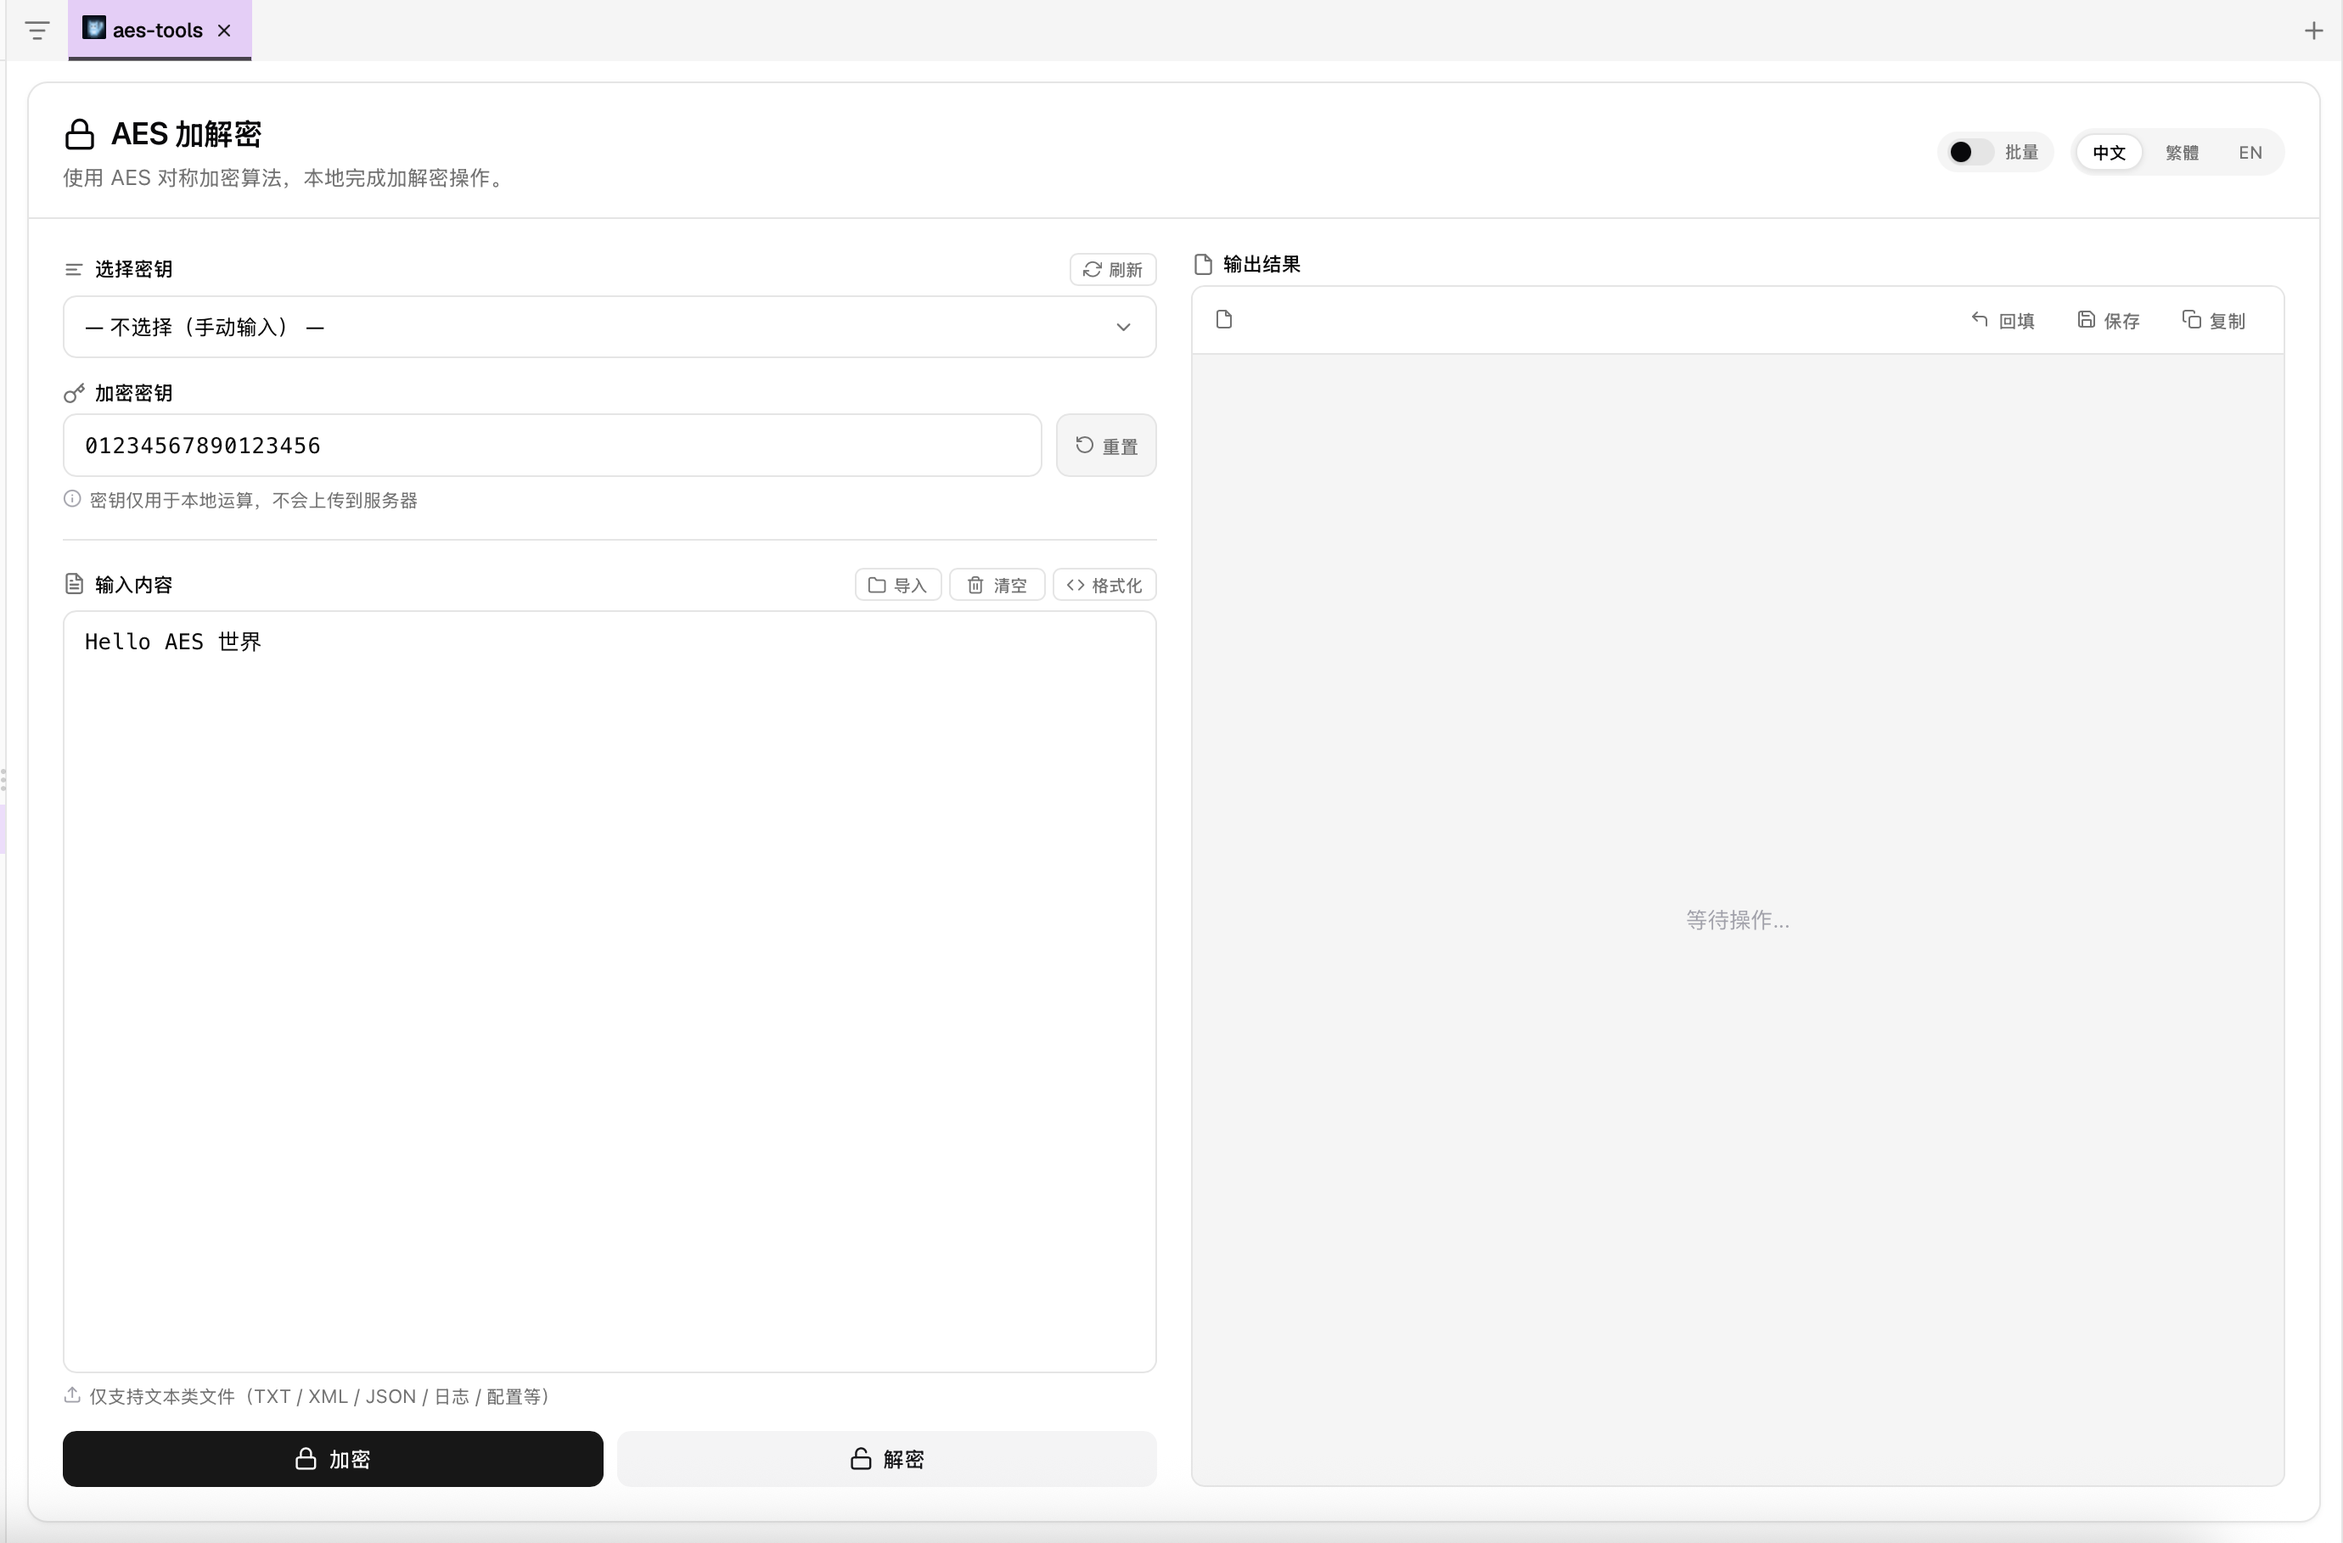
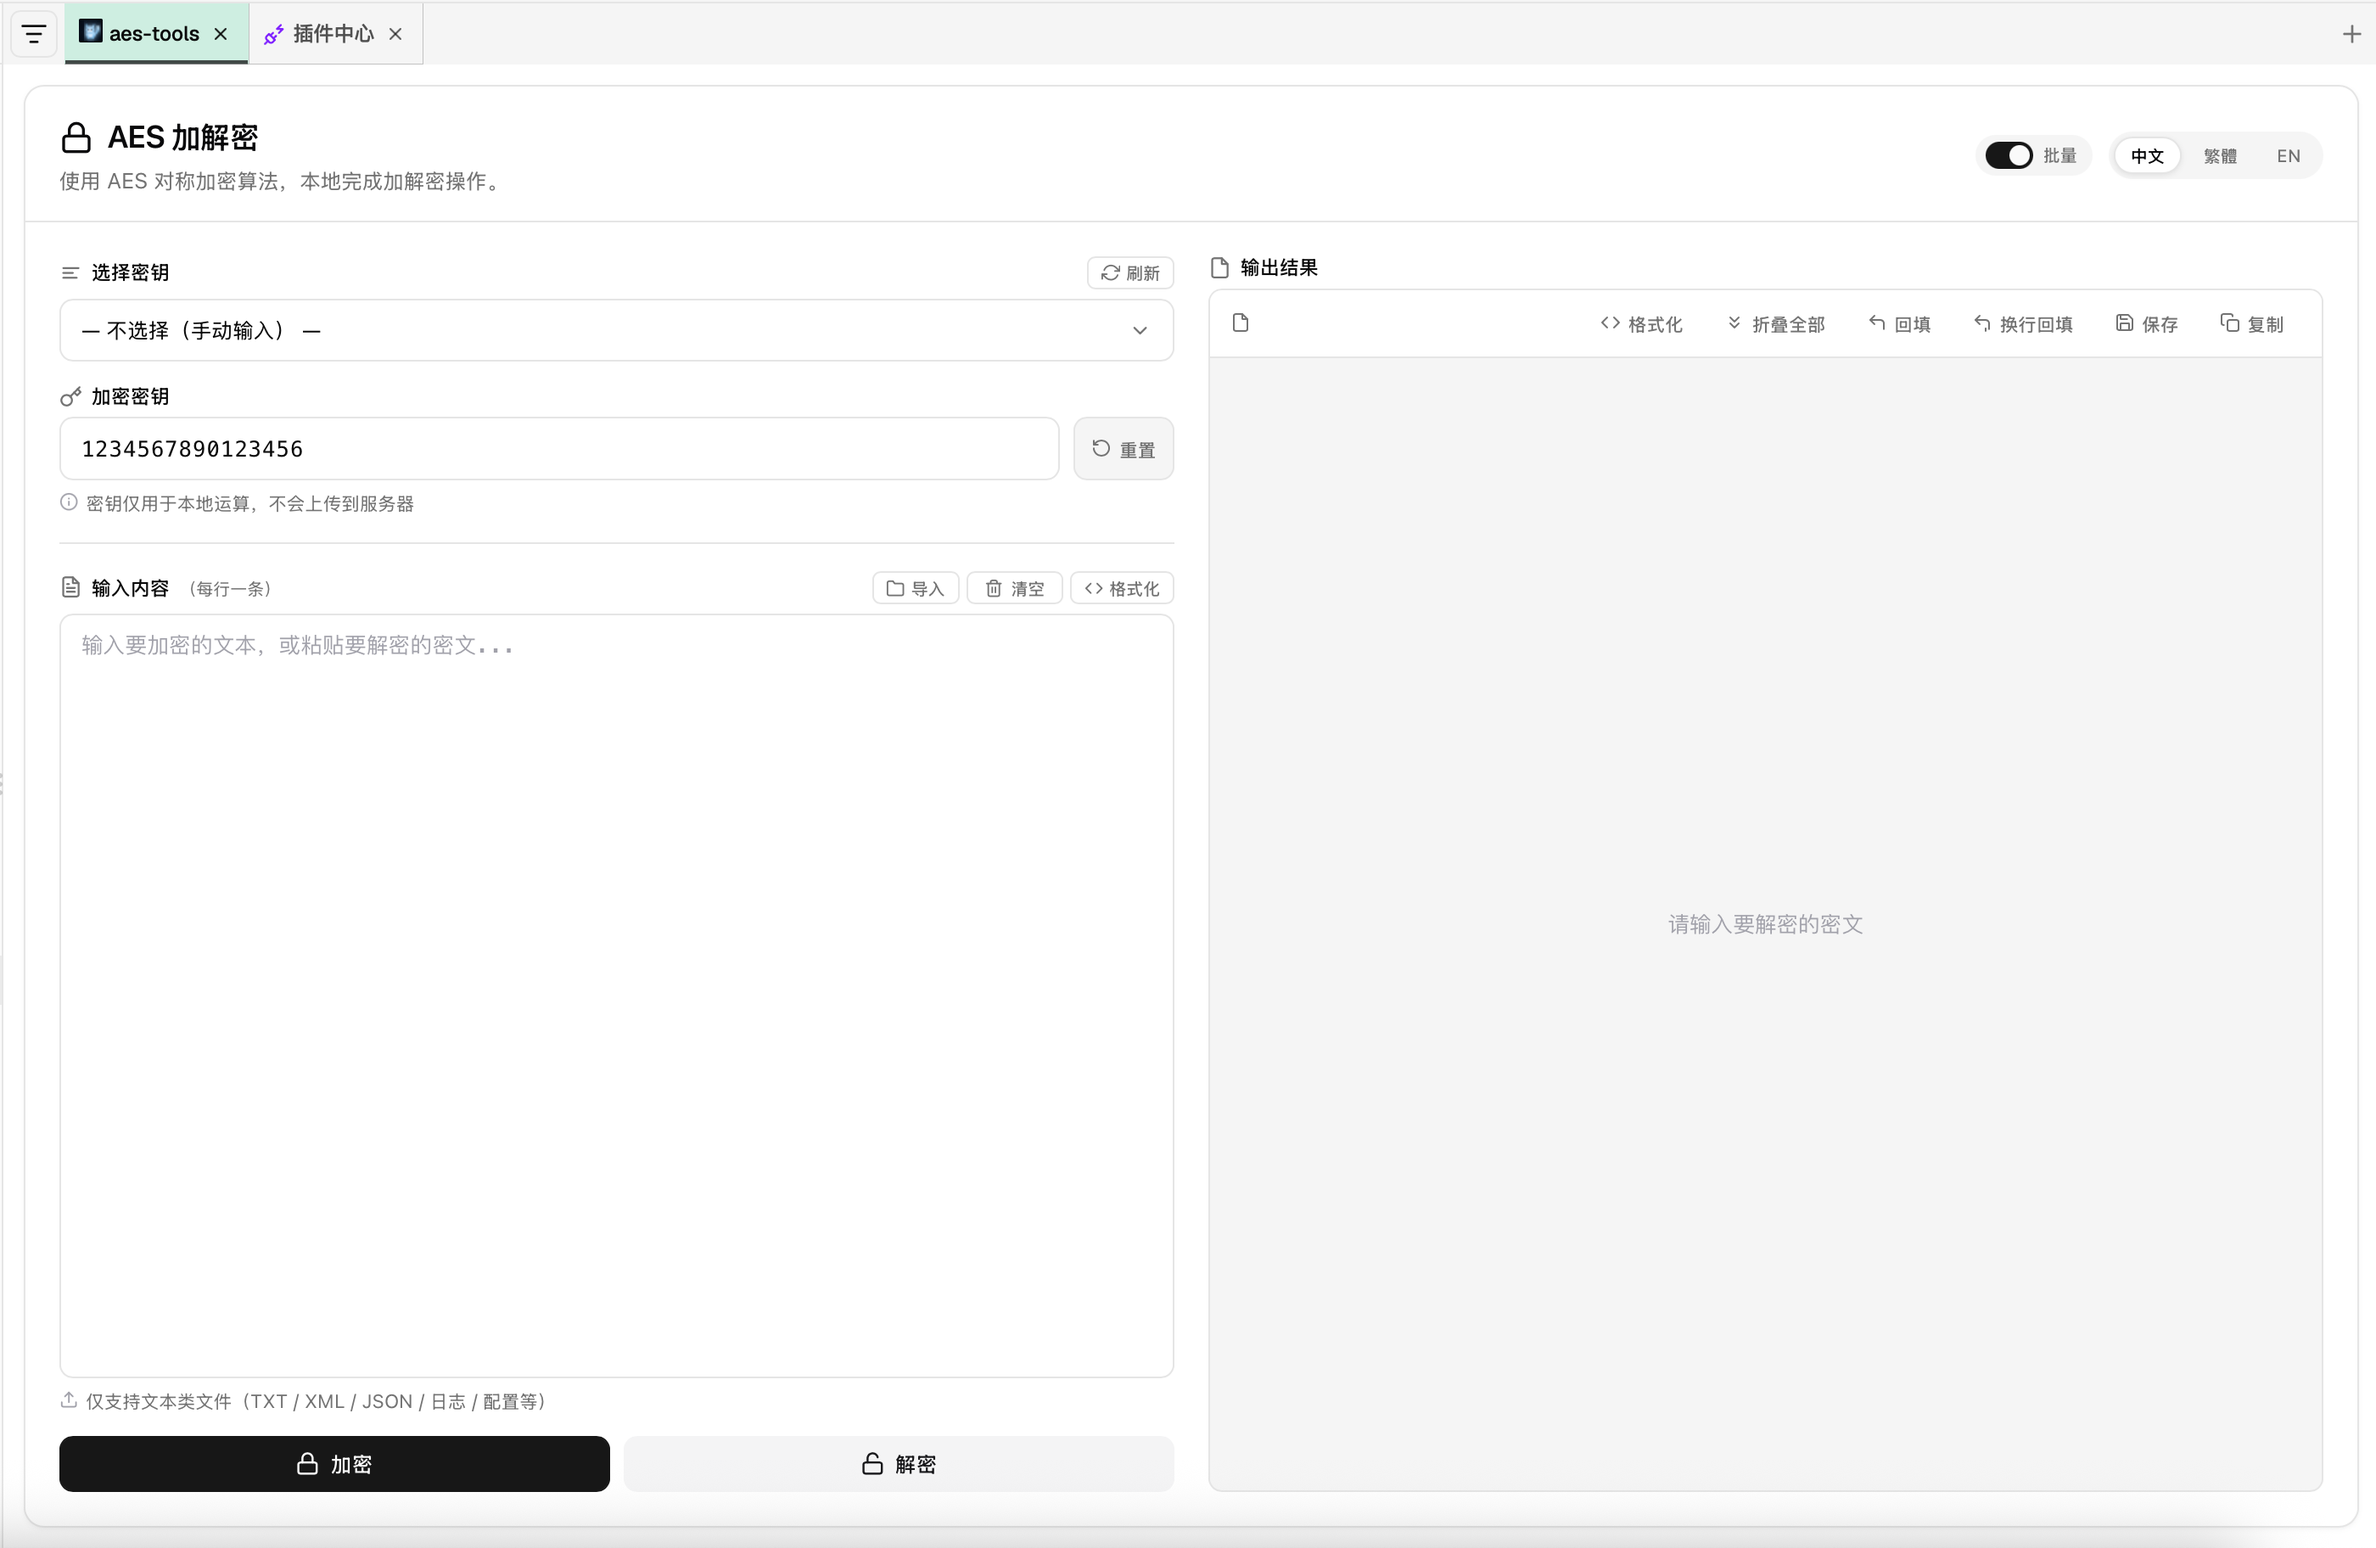
增加CHANGELOG文件

diff --git a/CHANGELOG.md b/CHANGELOG.md
@@ -1,0 +1,14 @@
+# Changelog
+## [0.1.2]
+- **优化布局，界面占满可视区域**
+- **增加导入文本文件至输入内容**
+- **增加保存加解密后的内容至本地文件**
+- **增加json/xml格式化功能**
+- **增加输出结果回填至输入内容功能**
+- **增加密钥刷新功能**
+- **增加右键快捷功能**
+## [0.1.1] 
+- **支持配置默认AES密钥**
+- **支持配置多个AES密钥**
+- **支持获取本地网络AES密钥**
+
